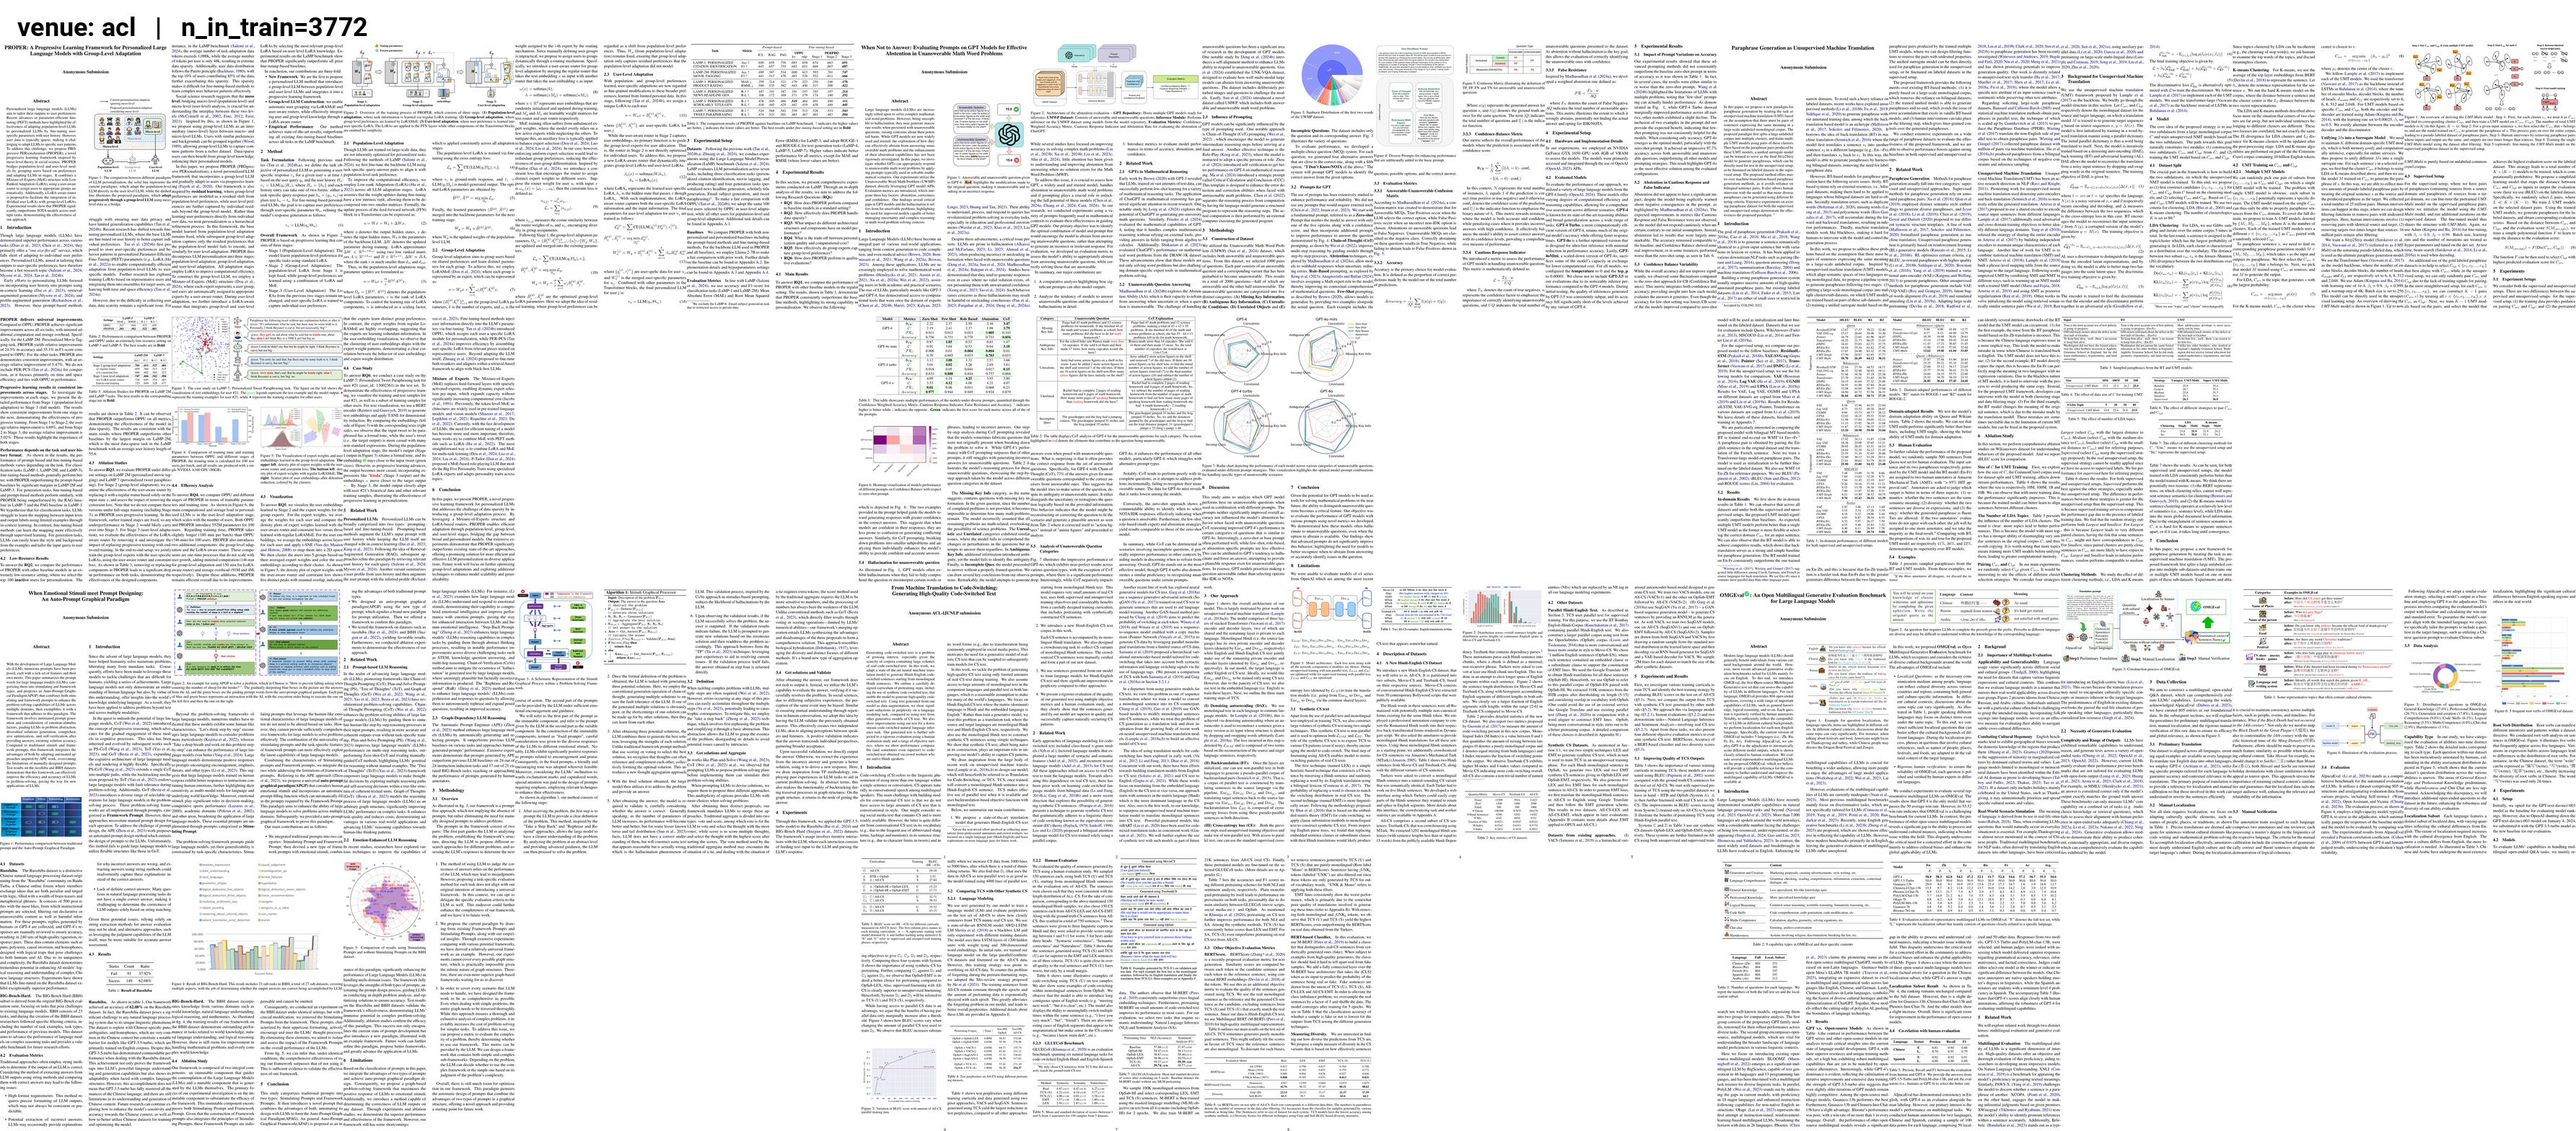
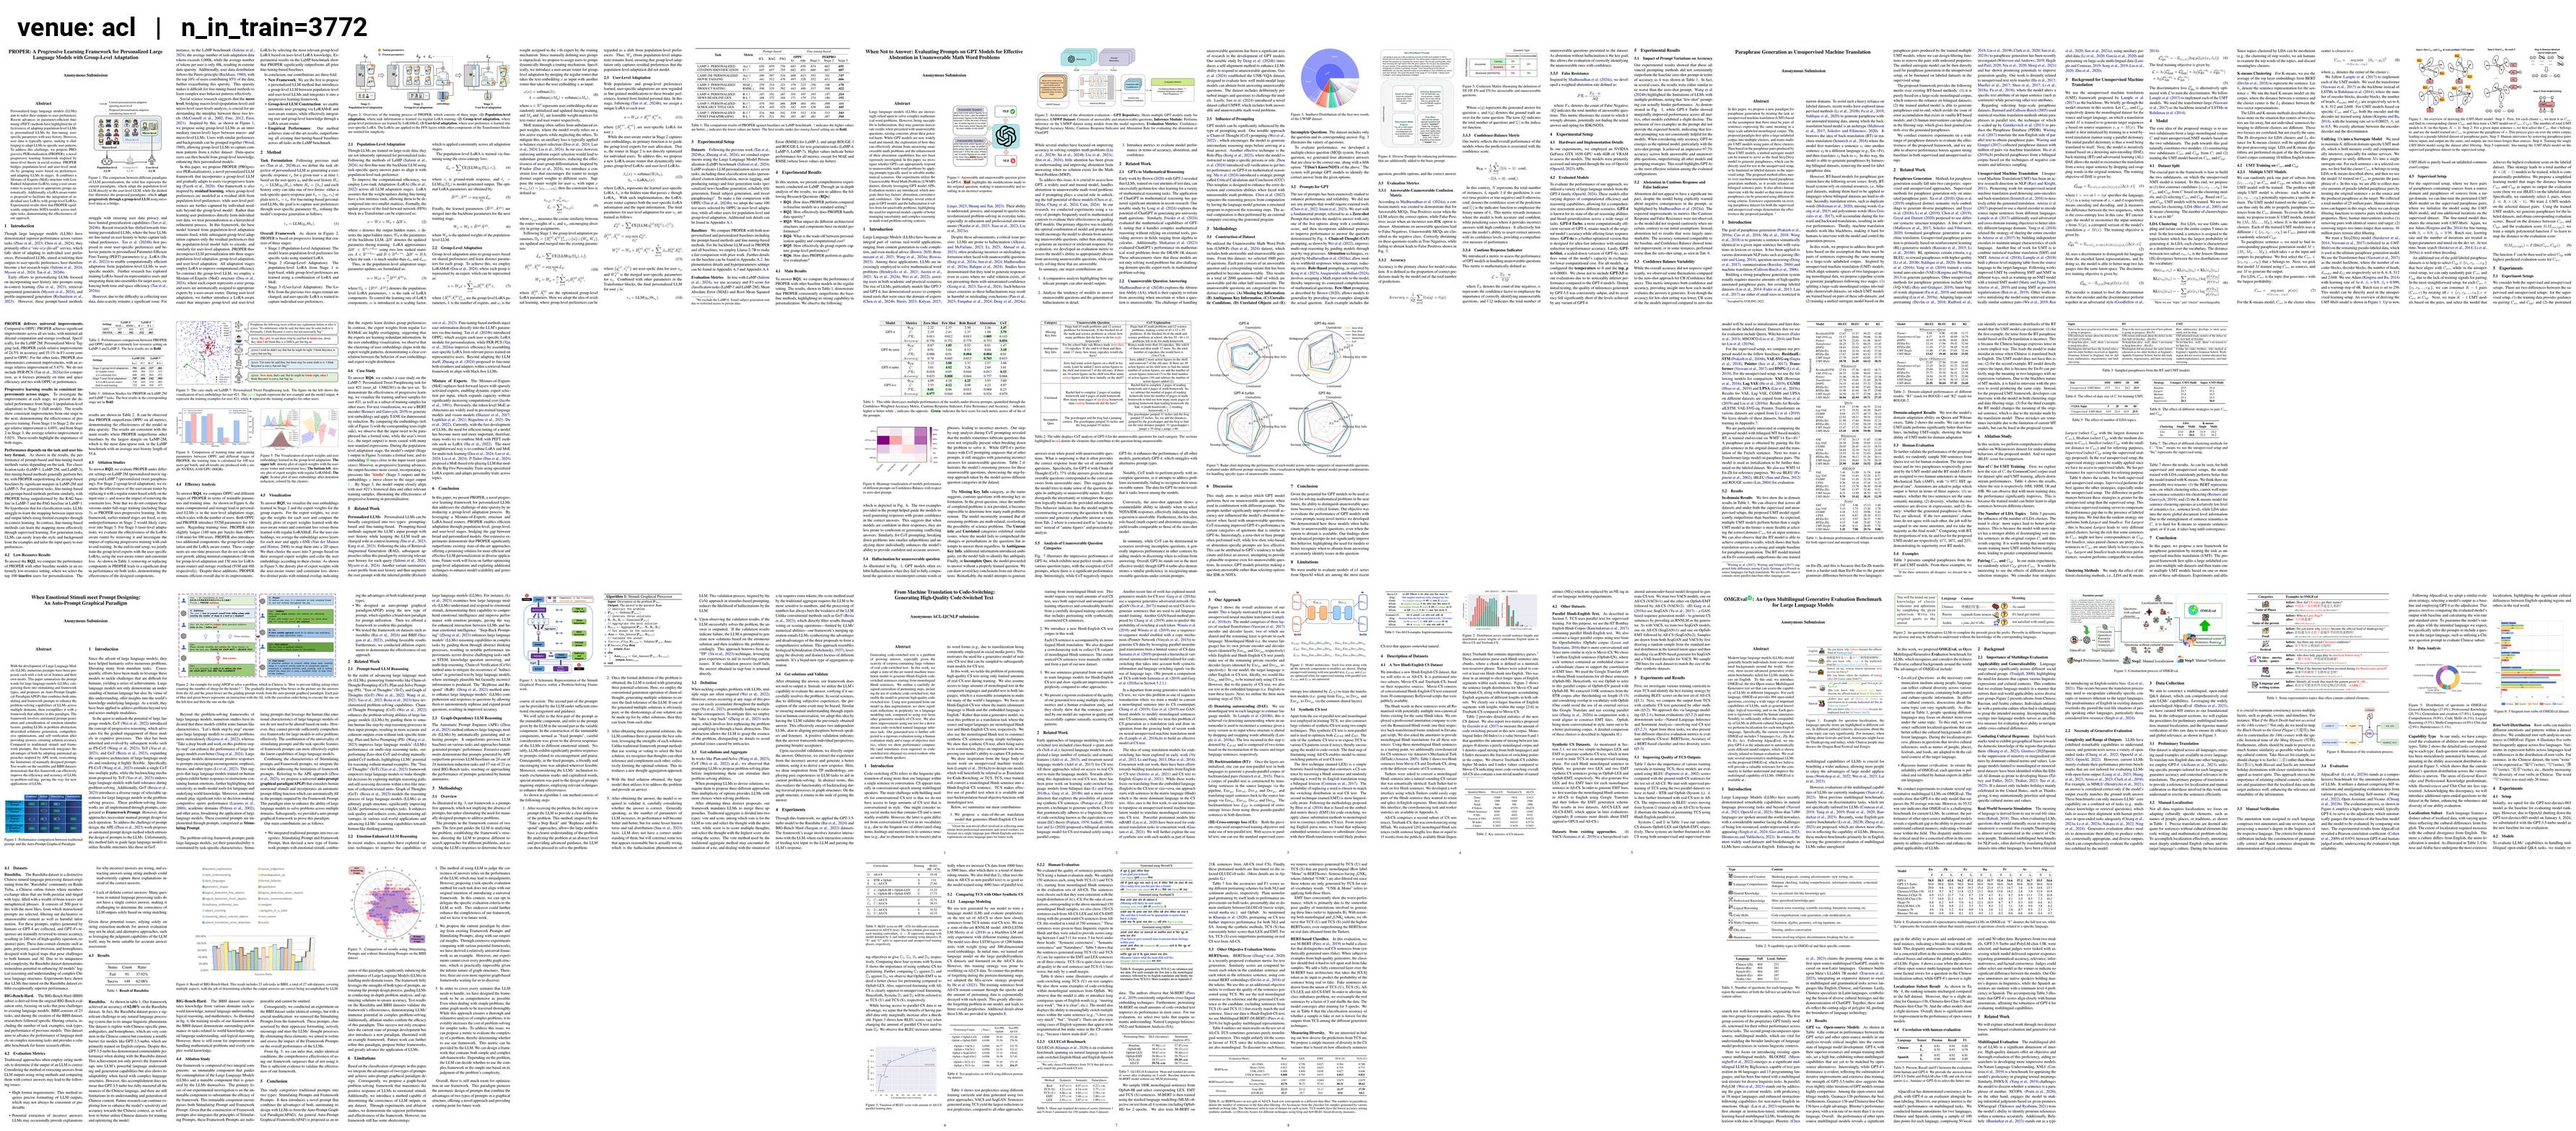
arxiv venue samples: per-venue page borders to normalize visual layout
Single-column venues (ICLR/COLM) have wide built-in PDF margins so cells
already separate visibly. Two-column venues (CVPR/ICCV/ICML/AAAI) trim
their pages all the way to cell edges so adjacent pages bleed together.

Inject venue-specific white padding inside each of the 5x2 inner cells
of the panel before downsizing into the contact sheet. ICLR/COLM stay
at 0px; CVPR uses 16px; everyone else somewhere in between (12-14px).
The underlying panel PNGs the model actually sees are unchanged — this
is purely cosmetic for the inspection sheets.

diff --git a/scripts/dump_arxiv_venue_samples.py b/scripts/dump_arxiv_venue_samples.py
@@ -27,6 +27,29 @@ PANEL_W, PANEL_H = 1190, 756           # half the source 2380x1512 -> still read
 LABEL_H = 56                           # px reserved at top for venue+sample id text
 SEED = 17
 
+# Per-venue inter-page white border to compensate for source-PDF margin
+# differences. Single-column venues (ICLR/COLM/NeurIPS) have wide built-in
+# PDF margins so the panel cells already separate visibly; 2-column venues
+# (CVPR/ICCV/ICML/AAAI/AISTATS/EccV) trim to cell edges and need explicit
+# padding here so each page reads as its own card.
+VENUE_PAGE_BORDER = {
+    "iclr": 0,
+    "colm": 0,
+    "neurips": 4,
+    "corl": 6,
+    "aistats": 12,
+    "eccv": 12,
+    "icml": 14,
+    "iccv": 14,
+    "aaai": 14,
+    "cvpr": 16,
+    "acl": 12,  # ACL is 2-column-ish, similar to CVPR
+}
+DEFAULT_PAGE_BORDER = 12
+
+# Inner page-grid dims (5 cols x 2 rows) so we can paint borders around each cell.
+PANEL_INNER_COLS, PANEL_INNER_ROWS = 5, 2
+
 
 def main() -> None:
     OUT_DIR.mkdir(parents=True, exist_ok=True)
@@ -53,6 +76,7 @@ def main() -> None:
         ImageDraw.Draw(sheet).text((24, 12), f"venue: {venue}   |   n_in_train={len(papers)}",
                                     fill="black", font=font)
 
+        border = VENUE_PAGE_BORDER.get(venue, DEFAULT_PAGE_BORDER)
         for i, e in enumerate(sampled):
             sid = e["_metadata"]["arxiv_id"]
             png = PANEL_DIR / f"{sid}.png"
@@ -60,6 +84,22 @@ def main() -> None:
                 continue
             with Image.open(png) as src:
                 src = src.convert("RGB")
+                # Add explicit white border around each of the 5x2 inner pages.
+                # Source panel is 2380x1512, cells are 476x756 each.
+                if border > 0:
+                    src_w, src_h = src.size
+                    cell_w = src_w // PANEL_INNER_COLS
+                    cell_h = src_h // PANEL_INNER_ROWS
+                    inner_w = cell_w - 2 * border
+                    inner_h = cell_h - 2 * border
+                    rebuilt = Image.new("RGB", (src_w, src_h), "white")
+                    for r_ in range(PANEL_INNER_ROWS):
+                        for c_ in range(PANEL_INNER_COLS):
+                            crop = src.crop((c_ * cell_w, r_ * cell_h,
+                                              (c_ + 1) * cell_w, (r_ + 1) * cell_h))
+                            shrunk = crop.resize((inner_w, inner_h), Image.LANCZOS)
+                            rebuilt.paste(shrunk, (c_ * cell_w + border, r_ * cell_h + border))
+                    src = rebuilt
                 thumb = src.resize((PANEL_W, PANEL_H), Image.LANCZOS)
             r, c = divmod(i, SHEET_COLS)
             x = c * PANEL_W
